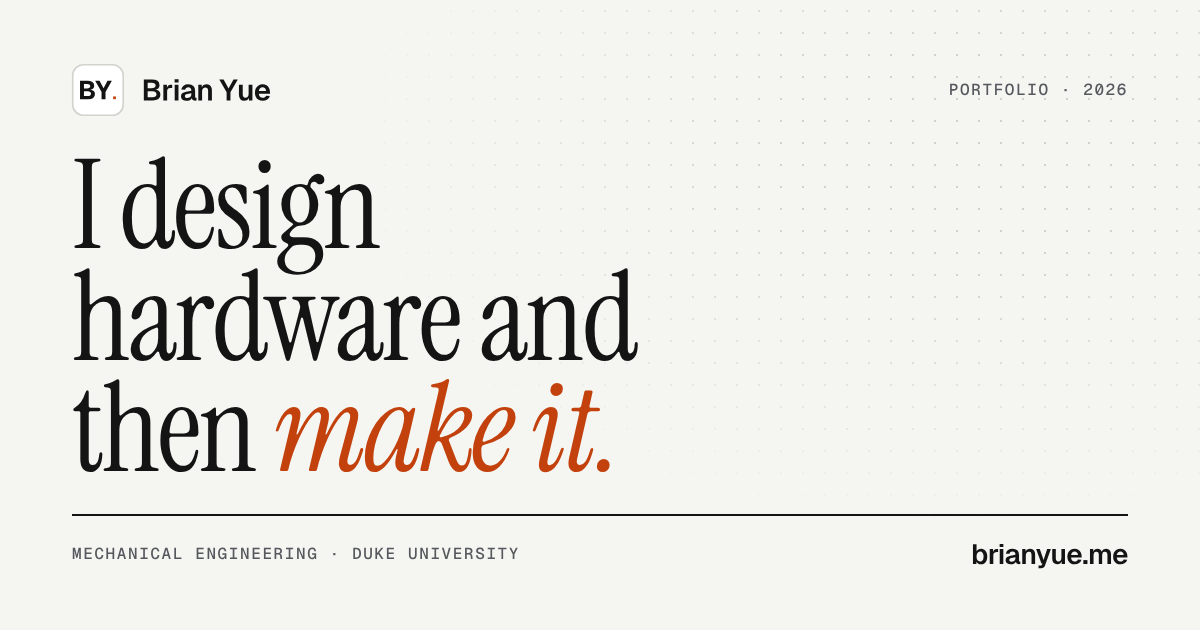
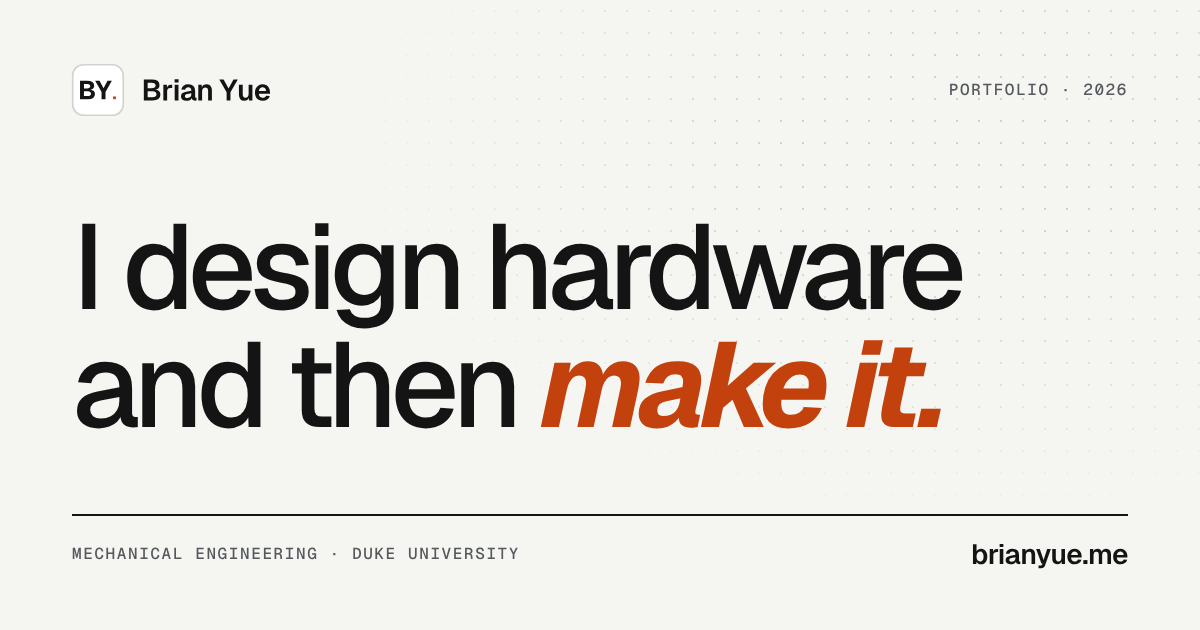
Hero: "make it." in Geist Bold Italic, and drop the serif font
The headline accent is now Geist Bold Italic in orange, so it matches the
rest of the site and the bold BY logo. The About teaser's "Beijing, then
Durham." line moves to Geist too, the share card headline follows the
hero, and Instrument Serif is no longer loaded anywhere.

Claude-Session: https://claude.ai/code/session_016TZ9BfjBYsZ5ZKSaB7R6SV

Changed region(s): [[0.0617, 0.2413, 0.8017, 0.754]]

diff --git a/index.html b/index.html
@@ -22,7 +22,7 @@
 <link rel="apple-touch-icon" href="apple-touch-icon.png">
 <link rel="preconnect" href="https://fonts.googleapis.com">
 <link rel="preconnect" href="https://fonts.gstatic.com" crossorigin>
-<link rel="stylesheet" href="https://fonts.googleapis.com/css2?family=Geist:wght@400;500;600;700&family=Geist+Mono:wght@400;500;600&family=Instrument+Serif:ital@0;1&display=swap">
+<link rel="stylesheet" href="https://fonts.googleapis.com/css2?family=Geist:ital,wght@0,400;0,500;0,600;0,700;1,700&family=Geist+Mono:wght@400;500;600&display=swap">
 <link rel="stylesheet" href="assets/site.css">
 <script>document.documentElement.classList.add('js');try{var th=localStorage.getItem('by-theme');if(th==='light'||th==='dark')document.documentElement.setAttribute('data-theme',th);}catch(e){}try{var q=location.search;if(/[?&]present=0/.test(q))sessionStorage.removeItem('by-present');else if(/[?&]present/.test(q))sessionStorage.setItem('by-present','1');if(sessionStorage.getItem('by-present')==='1'){document.documentElement.classList.add('present');document.documentElement.setAttribute('data-theme','light');}}catch(e){}window.addEventListener('error',function(e){var t=e.target;if(t&&t.tagName==='IMG'&&t.hasAttribute('data-logo')){t.remove();return;}if(!t||t.tagName!=='IMG'||!t.hasAttribute('data-dropin'))return;if(t.hasAttribute('data-optional')){var f=t.closest('figure');if(f){f.hidden=true;var r=f.closest('.figs');if(r&&!r.querySelector('figure:not([hidden])'))r.hidden=true;}return;}var b=t.closest('.frame,.media,.portrait');if(b){b.classList.add('is-missing');b.setAttribute('data-file',t.getAttribute('data-dropin'));}var a=t.closest('a[data-lightbox]');if(a){a.removeAttribute('href');a.removeAttribute('data-lightbox');}},true);</script>
 </head>
@@ -199,7 +199,7 @@
     <div class="portrait" data-reveal><img src="images/aiaa-sign.webp" loading="lazy" style="object-position: 50% 40%" alt="Brian Yue at the AIAA AVIATION 2026 forum in San Diego."></div>
     <div data-reveal style="--d:.1s">
       <p class="label">About</p>
-      <p class="big-text" style="font-family: var(--serif); font-weight: 400; font-size: clamp(2rem, 4vw, 3.2rem); letter-spacing: -0.02em; line-height: 1.05">Beijing, then Durham.</p>
+      <p class="big-text" style="font-weight: 600; font-size: clamp(2rem, 4vw, 3.2rem); letter-spacing: -0.045em; line-height: 1.05">Beijing, then Durham.</p>
       <p class="big-text" style="margin-top:0"> <span>I'm a mechanical engineering junior at Duke working toward an aerospace certificate. Before that, I captained ISSDC teams and coached middle school volleyball and basketball in Beijing.</span></p>
       <div class="actions">
         <a class="pill solid" href="about.html">More about me <span class="arrow">→</span></a>

diff --git a/leadership/coaching.html b/leadership/coaching.html
@@ -21,7 +21,7 @@
 <link rel="apple-touch-icon" href="../apple-touch-icon.png">
 <link rel="preconnect" href="https://fonts.googleapis.com">
 <link rel="preconnect" href="https://fonts.gstatic.com" crossorigin>
-<link rel="stylesheet" href="https://fonts.googleapis.com/css2?family=Geist:wght@400;500;600;700&family=Geist+Mono:wght@400;500;600&family=Instrument+Serif:ital@0;1&display=swap">
+<link rel="stylesheet" href="https://fonts.googleapis.com/css2?family=Geist:ital,wght@0,400;0,500;0,600;0,700;1,700&family=Geist+Mono:wght@400;500;600&display=swap">
 <link rel="stylesheet" href="../assets/site.css">
 <script>document.documentElement.classList.add('js');try{var th=localStorage.getItem('by-theme');if(th==='light'||th==='dark')document.documentElement.setAttribute('data-theme',th);}catch(e){}try{var q=location.search;if(/[?&]present=0/.test(q))sessionStorage.removeItem('by-present');else if(/[?&]present/.test(q))sessionStorage.setItem('by-present','1');if(sessionStorage.getItem('by-present')==='1'){document.documentElement.classList.add('present');document.documentElement.setAttribute('data-theme','light');}}catch(e){}window.addEventListener('error',function(e){var t=e.target;if(t&&t.tagName==='IMG'&&t.hasAttribute('data-logo')){t.remove();return;}if(!t||t.tagName!=='IMG'||!t.hasAttribute('data-dropin'))return;if(t.hasAttribute('data-optional')){var f=t.closest('figure');if(f){f.hidden=true;var r=f.closest('.figs');if(r&&!r.querySelector('figure:not([hidden])'))r.hidden=true;}return;}var b=t.closest('.frame,.media,.portrait');if(b){b.classList.add('is-missing');b.setAttribute('data-file',t.getAttribute('data-dropin'));}var a=t.closest('a[data-lightbox]');if(a){a.removeAttribute('href');a.removeAttribute('data-lightbox');}},true);</script>
 </head>

diff --git a/leadership/issdc.html b/leadership/issdc.html
@@ -21,7 +21,7 @@
 <link rel="apple-touch-icon" href="../apple-touch-icon.png">
 <link rel="preconnect" href="https://fonts.googleapis.com">
 <link rel="preconnect" href="https://fonts.gstatic.com" crossorigin>
-<link rel="stylesheet" href="https://fonts.googleapis.com/css2?family=Geist:wght@400;500;600;700&family=Geist+Mono:wght@400;500;600&family=Instrument+Serif:ital@0;1&display=swap">
+<link rel="stylesheet" href="https://fonts.googleapis.com/css2?family=Geist:ital,wght@0,400;0,500;0,600;0,700;1,700&family=Geist+Mono:wght@400;500;600&display=swap">
 <link rel="stylesheet" href="../assets/site.css">
 <script>document.documentElement.classList.add('js');try{var th=localStorage.getItem('by-theme');if(th==='light'||th==='dark')document.documentElement.setAttribute('data-theme',th);}catch(e){}try{var q=location.search;if(/[?&]present=0/.test(q))sessionStorage.removeItem('by-present');else if(/[?&]present/.test(q))sessionStorage.setItem('by-present','1');if(sessionStorage.getItem('by-present')==='1'){document.documentElement.classList.add('present');document.documentElement.setAttribute('data-theme','light');}}catch(e){}window.addEventListener('error',function(e){var t=e.target;if(t&&t.tagName==='IMG'&&t.hasAttribute('data-logo')){t.remove();return;}if(!t||t.tagName!=='IMG'||!t.hasAttribute('data-dropin'))return;if(t.hasAttribute('data-optional')){var f=t.closest('figure');if(f){f.hidden=true;var r=f.closest('.figs');if(r&&!r.querySelector('figure:not([hidden])'))r.hidden=true;}return;}var b=t.closest('.frame,.media,.portrait');if(b){b.classList.add('is-missing');b.setAttribute('data-file',t.getAttribute('data-dropin'));}var a=t.closest('a[data-lightbox]');if(a){a.removeAttribute('href');a.removeAttribute('data-lightbox');}},true);</script>
 </head>

diff --git a/leadership/teaching.html b/leadership/teaching.html
@@ -21,7 +21,7 @@
 <link rel="apple-touch-icon" href="../apple-touch-icon.png">
 <link rel="preconnect" href="https://fonts.googleapis.com">
 <link rel="preconnect" href="https://fonts.gstatic.com" crossorigin>
-<link rel="stylesheet" href="https://fonts.googleapis.com/css2?family=Geist:wght@400;500;600;700&family=Geist+Mono:wght@400;500;600&family=Instrument+Serif:ital@0;1&display=swap">
+<link rel="stylesheet" href="https://fonts.googleapis.com/css2?family=Geist:ital,wght@0,400;0,500;0,600;0,700;1,700&family=Geist+Mono:wght@400;500;600&display=swap">
 <link rel="stylesheet" href="../assets/site.css">
 <script>document.documentElement.classList.add('js');try{var th=localStorage.getItem('by-theme');if(th==='light'||th==='dark')document.documentElement.setAttribute('data-theme',th);}catch(e){}try{var q=location.search;if(/[?&]present=0/.test(q))sessionStorage.removeItem('by-present');else if(/[?&]present/.test(q))sessionStorage.setItem('by-present','1');if(sessionStorage.getItem('by-present')==='1'){document.documentElement.classList.add('present');document.documentElement.setAttribute('data-theme','light');}}catch(e){}window.addEventListener('error',function(e){var t=e.target;if(t&&t.tagName==='IMG'&&t.hasAttribute('data-logo')){t.remove();return;}if(!t||t.tagName!=='IMG'||!t.hasAttribute('data-dropin'))return;if(t.hasAttribute('data-optional')){var f=t.closest('figure');if(f){f.hidden=true;var r=f.closest('.figs');if(r&&!r.querySelector('figure:not([hidden])'))r.hidden=true;}return;}var b=t.closest('.frame,.media,.portrait');if(b){b.classList.add('is-missing');b.setAttribute('data-file',t.getAttribute('data-dropin'));}var a=t.closest('a[data-lightbox]');if(a){a.removeAttribute('href');a.removeAttribute('data-lightbox');}},true);</script>
 </head>

diff --git a/work/forward-closure.html b/work/forward-closure.html
@@ -21,7 +21,7 @@
 <link rel="apple-touch-icon" href="../apple-touch-icon.png">
 <link rel="preconnect" href="https://fonts.googleapis.com">
 <link rel="preconnect" href="https://fonts.gstatic.com" crossorigin>
-<link rel="stylesheet" href="https://fonts.googleapis.com/css2?family=Geist:wght@400;500;600;700&family=Geist+Mono:wght@400;500;600&family=Instrument+Serif:ital@0;1&display=swap">
+<link rel="stylesheet" href="https://fonts.googleapis.com/css2?family=Geist:ital,wght@0,400;0,500;0,600;0,700;1,700&family=Geist+Mono:wght@400;500;600&display=swap">
 <link rel="stylesheet" href="../assets/site.css">
 <script>document.documentElement.classList.add('js');try{var th=localStorage.getItem('by-theme');if(th==='light'||th==='dark')document.documentElement.setAttribute('data-theme',th);}catch(e){}try{var q=location.search;if(/[?&]present=0/.test(q))sessionStorage.removeItem('by-present');else if(/[?&]present/.test(q))sessionStorage.setItem('by-present','1');if(sessionStorage.getItem('by-present')==='1'){document.documentElement.classList.add('present');document.documentElement.setAttribute('data-theme','light');}}catch(e){}window.addEventListener('error',function(e){var t=e.target;if(t&&t.tagName==='IMG'&&t.hasAttribute('data-logo')){t.remove();return;}if(!t||t.tagName!=='IMG'||!t.hasAttribute('data-dropin'))return;if(t.hasAttribute('data-optional')){var f=t.closest('figure');if(f){f.hidden=true;var r=f.closest('.figs');if(r&&!r.querySelector('figure:not([hidden])'))r.hidden=true;}return;}var b=t.closest('.frame,.media,.portrait');if(b){b.classList.add('is-missing');b.setAttribute('data-file',t.getAttribute('data-dropin'));}var a=t.closest('a[data-lightbox]');if(a){a.removeAttribute('href');a.removeAttribute('data-lightbox');}},true);</script>
 </head>

diff --git a/work/happy-meal.html b/work/happy-meal.html
@@ -21,7 +21,7 @@
 <link rel="apple-touch-icon" href="../apple-touch-icon.png">
 <link rel="preconnect" href="https://fonts.googleapis.com">
 <link rel="preconnect" href="https://fonts.gstatic.com" crossorigin>
-<link rel="stylesheet" href="https://fonts.googleapis.com/css2?family=Geist:wght@400;500;600;700&family=Geist+Mono:wght@400;500;600&family=Instrument+Serif:ital@0;1&display=swap">
+<link rel="stylesheet" href="https://fonts.googleapis.com/css2?family=Geist:ital,wght@0,400;0,500;0,600;0,700;1,700&family=Geist+Mono:wght@400;500;600&display=swap">
 <link rel="stylesheet" href="../assets/site.css">
 <script>document.documentElement.classList.add('js');try{var th=localStorage.getItem('by-theme');if(th==='light'||th==='dark')document.documentElement.setAttribute('data-theme',th);}catch(e){}try{var q=location.search;if(/[?&]present=0/.test(q))sessionStorage.removeItem('by-present');else if(/[?&]present/.test(q))sessionStorage.setItem('by-present','1');if(sessionStorage.getItem('by-present')==='1'){document.documentElement.classList.add('present');document.documentElement.setAttribute('data-theme','light');}}catch(e){}window.addEventListener('error',function(e){var t=e.target;if(t&&t.tagName==='IMG'&&t.hasAttribute('data-logo')){t.remove();return;}if(!t||t.tagName!=='IMG'||!t.hasAttribute('data-dropin'))return;if(t.hasAttribute('data-optional')){var f=t.closest('figure');if(f){f.hidden=true;var r=f.closest('.figs');if(r&&!r.querySelector('figure:not([hidden])'))r.hidden=true;}return;}var b=t.closest('.frame,.media,.portrait');if(b){b.classList.add('is-missing');b.setAttribute('data-file',t.getAttribute('data-dropin'));}var a=t.closest('a[data-lightbox]');if(a){a.removeAttribute('href');a.removeAttribute('data-lightbox');}},true);</script>
 </head>

diff --git a/work/playseat.html b/work/playseat.html
@@ -21,7 +21,7 @@
 <link rel="apple-touch-icon" href="../apple-touch-icon.png">
 <link rel="preconnect" href="https://fonts.googleapis.com">
 <link rel="preconnect" href="https://fonts.gstatic.com" crossorigin>
-<link rel="stylesheet" href="https://fonts.googleapis.com/css2?family=Geist:wght@400;500;600;700&family=Geist+Mono:wght@400;500;600&family=Instrument+Serif:ital@0;1&display=swap">
+<link rel="stylesheet" href="https://fonts.googleapis.com/css2?family=Geist:ital,wght@0,400;0,500;0,600;0,700;1,700&family=Geist+Mono:wght@400;500;600&display=swap">
 <link rel="stylesheet" href="../assets/site.css">
 <script>document.documentElement.classList.add('js');try{var th=localStorage.getItem('by-theme');if(th==='light'||th==='dark')document.documentElement.setAttribute('data-theme',th);}catch(e){}try{var q=location.search;if(/[?&]present=0/.test(q))sessionStorage.removeItem('by-present');else if(/[?&]present/.test(q))sessionStorage.setItem('by-present','1');if(sessionStorage.getItem('by-present')==='1'){document.documentElement.classList.add('present');document.documentElement.setAttribute('data-theme','light');}}catch(e){}window.addEventListener('error',function(e){var t=e.target;if(t&&t.tagName==='IMG'&&t.hasAttribute('data-logo')){t.remove();return;}if(!t||t.tagName!=='IMG'||!t.hasAttribute('data-dropin'))return;if(t.hasAttribute('data-optional')){var f=t.closest('figure');if(f){f.hidden=true;var r=f.closest('.figs');if(r&&!r.querySelector('figure:not([hidden])'))r.hidden=true;}return;}var b=t.closest('.frame,.media,.portrait');if(b){b.classList.add('is-missing');b.setAttribute('data-file',t.getAttribute('data-dropin'));}var a=t.closest('a[data-lightbox]');if(a){a.removeAttribute('href');a.removeAttribute('data-lightbox');}},true);</script>
 </head>

diff --git a/work/shear-balance.html b/work/shear-balance.html
@@ -21,7 +21,7 @@
 <link rel="apple-touch-icon" href="../apple-touch-icon.png">
 <link rel="preconnect" href="https://fonts.googleapis.com">
 <link rel="preconnect" href="https://fonts.gstatic.com" crossorigin>
-<link rel="stylesheet" href="https://fonts.googleapis.com/css2?family=Geist:wght@400;500;600;700&family=Geist+Mono:wght@400;500;600&family=Instrument+Serif:ital@0;1&display=swap">
+<link rel="stylesheet" href="https://fonts.googleapis.com/css2?family=Geist:ital,wght@0,400;0,500;0,600;0,700;1,700&family=Geist+Mono:wght@400;500;600&display=swap">
 <link rel="stylesheet" href="../assets/site.css">
 <script>document.documentElement.classList.add('js');try{var th=localStorage.getItem('by-theme');if(th==='light'||th==='dark')document.documentElement.setAttribute('data-theme',th);}catch(e){}try{var q=location.search;if(/[?&]present=0/.test(q))sessionStorage.removeItem('by-present');else if(/[?&]present/.test(q))sessionStorage.setItem('by-present','1');if(sessionStorage.getItem('by-present')==='1'){document.documentElement.classList.add('present');document.documentElement.setAttribute('data-theme','light');}}catch(e){}window.addEventListener('error',function(e){var t=e.target;if(t&&t.tagName==='IMG'&&t.hasAttribute('data-logo')){t.remove();return;}if(!t||t.tagName!=='IMG'||!t.hasAttribute('data-dropin'))return;if(t.hasAttribute('data-optional')){var f=t.closest('figure');if(f){f.hidden=true;var r=f.closest('.figs');if(r&&!r.querySelector('figure:not([hidden])'))r.hidden=true;}return;}var b=t.closest('.frame,.media,.portrait');if(b){b.classList.add('is-missing');b.setAttribute('data-file',t.getAttribute('data-dropin'));}var a=t.closest('a[data-lightbox]');if(a){a.removeAttribute('href');a.removeAttribute('data-lightbox');}},true);</script>
 </head>

diff --git a/work/smaller-work.html b/work/smaller-work.html
@@ -21,7 +21,7 @@
 <link rel="apple-touch-icon" href="../apple-touch-icon.png">
 <link rel="preconnect" href="https://fonts.googleapis.com">
 <link rel="preconnect" href="https://fonts.gstatic.com" crossorigin>
-<link rel="stylesheet" href="https://fonts.googleapis.com/css2?family=Geist:wght@400;500;600;700&family=Geist+Mono:wght@400;500;600&family=Instrument+Serif:ital@0;1&display=swap">
+<link rel="stylesheet" href="https://fonts.googleapis.com/css2?family=Geist:ital,wght@0,400;0,500;0,600;0,700;1,700&family=Geist+Mono:wght@400;500;600&display=swap">
 <link rel="stylesheet" href="../assets/site.css">
 <script>document.documentElement.classList.add('js');try{var th=localStorage.getItem('by-theme');if(th==='light'||th==='dark')document.documentElement.setAttribute('data-theme',th);}catch(e){}try{var q=location.search;if(/[?&]present=0/.test(q))sessionStorage.removeItem('by-present');else if(/[?&]present/.test(q))sessionStorage.setItem('by-present','1');if(sessionStorage.getItem('by-present')==='1'){document.documentElement.classList.add('present');document.documentElement.setAttribute('data-theme','light');}}catch(e){}window.addEventListener('error',function(e){var t=e.target;if(t&&t.tagName==='IMG'&&t.hasAttribute('data-logo')){t.remove();return;}if(!t||t.tagName!=='IMG'||!t.hasAttribute('data-dropin'))return;if(t.hasAttribute('data-optional')){var f=t.closest('figure');if(f){f.hidden=true;var r=f.closest('.figs');if(r&&!r.querySelector('figure:not([hidden])'))r.hidden=true;}return;}var b=t.closest('.frame,.media,.portrait');if(b){b.classList.add('is-missing');b.setAttribute('data-file',t.getAttribute('data-dropin'));}var a=t.closest('a[data-lightbox]');if(a){a.removeAttribute('href');a.removeAttribute('data-lightbox');}},true);</script>
 </head>

diff --git a/work/ttbw.html b/work/ttbw.html
@@ -21,7 +21,7 @@
 <link rel="apple-touch-icon" href="../apple-touch-icon.png">
 <link rel="preconnect" href="https://fonts.googleapis.com">
 <link rel="preconnect" href="https://fonts.gstatic.com" crossorigin>
-<link rel="stylesheet" href="https://fonts.googleapis.com/css2?family=Geist:wght@400;500;600;700&family=Geist+Mono:wght@400;500;600&family=Instrument+Serif:ital@0;1&display=swap">
+<link rel="stylesheet" href="https://fonts.googleapis.com/css2?family=Geist:ital,wght@0,400;0,500;0,600;0,700;1,700&family=Geist+Mono:wght@400;500;600&display=swap">
 <link rel="stylesheet" href="../assets/site.css">
 <script>document.documentElement.classList.add('js');try{var th=localStorage.getItem('by-theme');if(th==='light'||th==='dark')document.documentElement.setAttribute('data-theme',th);}catch(e){}try{var q=location.search;if(/[?&]present=0/.test(q))sessionStorage.removeItem('by-present');else if(/[?&]present/.test(q))sessionStorage.setItem('by-present','1');if(sessionStorage.getItem('by-present')==='1'){document.documentElement.classList.add('present');document.documentElement.setAttribute('data-theme','light');}}catch(e){}window.addEventListener('error',function(e){var t=e.target;if(t&&t.tagName==='IMG'&&t.hasAttribute('data-logo')){t.remove();return;}if(!t||t.tagName!=='IMG'||!t.hasAttribute('data-dropin'))return;if(t.hasAttribute('data-optional')){var f=t.closest('figure');if(f){f.hidden=true;var r=f.closest('.figs');if(r&&!r.querySelector('figure:not([hidden])'))r.hidden=true;}return;}var b=t.closest('.frame,.media,.portrait');if(b){b.classList.add('is-missing');b.setAttribute('data-file',t.getAttribute('data-dropin'));}var a=t.closest('a[data-lightbox]');if(a){a.removeAttribute('href');a.removeAttribute('data-lightbox');}},true);</script>
 </head>

diff --git a/404.html b/404.html
@@ -20,7 +20,7 @@
 <link rel="apple-touch-icon" href="/apple-touch-icon.png">
 <link rel="preconnect" href="https://fonts.googleapis.com">
 <link rel="preconnect" href="https://fonts.gstatic.com" crossorigin>
-<link rel="stylesheet" href="https://fonts.googleapis.com/css2?family=Geist:wght@400;500;600;700&family=Geist+Mono:wght@400;500;600&family=Instrument+Serif:ital@0;1&display=swap">
+<link rel="stylesheet" href="https://fonts.googleapis.com/css2?family=Geist:ital,wght@0,400;0,500;0,600;0,700;1,700&family=Geist+Mono:wght@400;500;600&display=swap">
 <link rel="stylesheet" href="/assets/site.css">
 <script>document.documentElement.classList.add('js');try{var th=localStorage.getItem('by-theme');if(th==='light'||th==='dark')document.documentElement.setAttribute('data-theme',th);}catch(e){}try{var q=location.search;if(/[?&]present=0/.test(q))sessionStorage.removeItem('by-present');else if(/[?&]present/.test(q))sessionStorage.setItem('by-present','1');if(sessionStorage.getItem('by-present')==='1'){document.documentElement.classList.add('present');document.documentElement.setAttribute('data-theme','light');}}catch(e){}window.addEventListener('error',function(e){var t=e.target;if(t&&t.tagName==='IMG'&&t.hasAttribute('data-logo')){t.remove();return;}if(!t||t.tagName!=='IMG'||!t.hasAttribute('data-dropin'))return;if(t.hasAttribute('data-optional')){var f=t.closest('figure');if(f){f.hidden=true;var r=f.closest('.figs');if(r&&!r.querySelector('figure:not([hidden])'))r.hidden=true;}return;}var b=t.closest('.frame,.media,.portrait');if(b){b.classList.add('is-missing');b.setAttribute('data-file',t.getAttribute('data-dropin'));}var a=t.closest('a[data-lightbox]');if(a){a.removeAttribute('href');a.removeAttribute('data-lightbox');}},true);</script>
 </head>

diff --git a/about.html b/about.html
@@ -22,7 +22,7 @@
 <link rel="apple-touch-icon" href="apple-touch-icon.png">
 <link rel="preconnect" href="https://fonts.googleapis.com">
 <link rel="preconnect" href="https://fonts.gstatic.com" crossorigin>
-<link rel="stylesheet" href="https://fonts.googleapis.com/css2?family=Geist:wght@400;500;600;700&family=Geist+Mono:wght@400;500;600&family=Instrument+Serif:ital@0;1&display=swap">
+<link rel="stylesheet" href="https://fonts.googleapis.com/css2?family=Geist:ital,wght@0,400;0,500;0,600;0,700;1,700&family=Geist+Mono:wght@400;500;600&display=swap">
 <link rel="stylesheet" href="assets/site.css">
 <script>document.documentElement.classList.add('js');try{var th=localStorage.getItem('by-theme');if(th==='light'||th==='dark')document.documentElement.setAttribute('data-theme',th);}catch(e){}try{var q=location.search;if(/[?&]present=0/.test(q))sessionStorage.removeItem('by-present');else if(/[?&]present/.test(q))sessionStorage.setItem('by-present','1');if(sessionStorage.getItem('by-present')==='1'){document.documentElement.classList.add('present');document.documentElement.setAttribute('data-theme','light');}}catch(e){}window.addEventListener('error',function(e){var t=e.target;if(t&&t.tagName==='IMG'&&t.hasAttribute('data-logo')){t.remove();return;}if(!t||t.tagName!=='IMG'||!t.hasAttribute('data-dropin'))return;if(t.hasAttribute('data-optional')){var f=t.closest('figure');if(f){f.hidden=true;var r=f.closest('.figs');if(r&&!r.querySelector('figure:not([hidden])'))r.hidden=true;}return;}var b=t.closest('.frame,.media,.portrait');if(b){b.classList.add('is-missing');b.setAttribute('data-file',t.getAttribute('data-dropin'));}var a=t.closest('a[data-lightbox]');if(a){a.removeAttribute('href');a.removeAttribute('data-lightbox');}},true);</script>
 </head>
